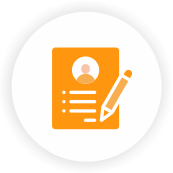
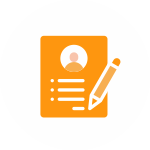
Resume builder landing page (Jaspreet)

Changed region(s): [[0.2667, 0.2133, 0.8267, 0.8]]

diff --git a/frontend/views/site/resume-builder-landing-page.php b/frontend/views/site/resume-builder-landing-page.php
@@ -22,7 +22,7 @@ $this->params['header_dark'] = false;
     </div>
 </section>
 
-<section>
+<section class="bene">
         <div class="container">
             <div class="row mt-20">
                 <div class="col-md-12">
@@ -34,13 +34,58 @@ $this->params['header_dark'] = false;
                     <div class="benefit-icon">
                         <img src="<?= Url::to('@eyAssets/images/pages/resume-builder/organize.png'); ?>"/>
                     </div>
+                    <div class="benefit-txt">
+                        <span class="org-txt">Organize</span> Your Resume
+                    </div>
+                </div>
+            </div>
+            <div class="col-md-3 col-sm-4 col-xs-12">
+                <div class="benefit">
+                    <div class="benefit-icon">
+                        <img src="<?= Url::to('@eyAssets/images/pages/resume-builder/No-Experience.png'); ?>"/>
+                    </div>
+                    <div class="benefit-txt">
+                        <span class="org-txt">No Experience</span> Needed
+                    </div>
+                </div>
+            </div>
+            <div class="col-md-3 col-sm-4 col-xs-12">
+                <div class="benefit">
+                    <div class="benefit-icon">
+                        <img src="<?= Url::to('@eyAssets/images/pages/resume-builder/save-time.png'); ?>"/>
+                    </div>
+                    <div class="benefit-txt">
+                        <span class="org-txt">Save</span> Time
+                    </div>
+                </div>
+            </div>
+            <div class="col-md-3 col-sm-4 col-xs-12">
+                <div class="benefit">
+                    <div class="benefit-icon">
+                        <img src="<?= Url::to('@eyAssets/images/pages/resume-builder/organize.png'); ?>"/>
+                    </div>
+                    <div class="benefit-txt">
+                        <span class="org-txt">Organize</span> Your Resume
+                    </div>
                 </div>
             </div>
             </div>
 </section>
 
+<section>
+    <div class="easy-steps">
+
+    </div>
+</section>
+
 <?php
 $this->registerCss('
+.easy-steps{
+    background-color: #fca943;
+    min-height: 500px;
+    background-repeat: no-repeat;
+    background-size: cover;
+}
 body{
     margin: 0px;
 }
@@ -78,6 +123,15 @@ body{
 .org-txt{
     color: #fca943;
 }
+.bene{
+    padding-top: 20px!important;
+    padding-bottom: 20px!important;
+}
+.benefit{
+    text-align: center;
+    margin-bottom: 25px;
+    display: block;
+}
 .benefit-icon{
     text-align: center;
     width: 100%;
@@ -87,6 +141,16 @@ body{
     min-height: 120px;
     margin: 0 auto 20px;
     border-radius: 80px;
+    box-shadow: 0 0 25px 0 rgba(0,0,0,.18);
+}
+.benefit icon img{
+    max-width: 68px;
+    margin-top: 26px;
+}
+.benefit-txt{
+    font-size: 20px;
+	font-family: lora;
+	font-weight: 600;
 }
 ');
 

diff --git a/frontend/views/education-loans/education-loan-index.php b/frontend/views/education-loans/education-loan-index.php
@@ -230,6 +230,7 @@ use yii\helpers\Url;
 <!--            </div>-->
 <!--        </div>-->
 <!--    </section>-->
+
     <section>
         <div class="ptb50 bgEd">
             <div class="container">
@@ -510,6 +511,7 @@ JS;
 $this->registerJs($script);
 
 $this->registerCss('
+}
 .blue1{
     color: #EF9819;
  }
